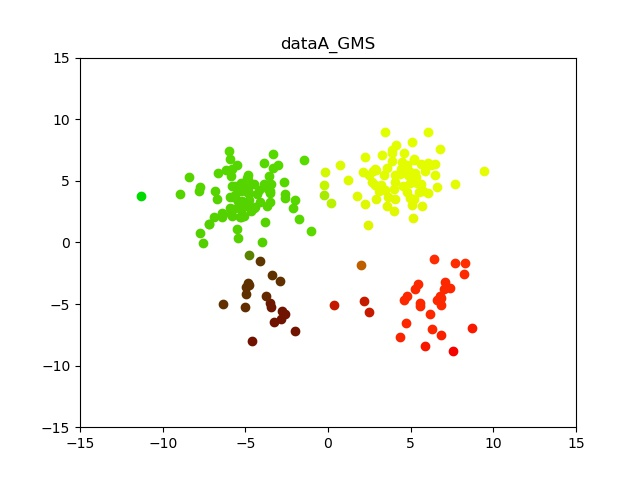
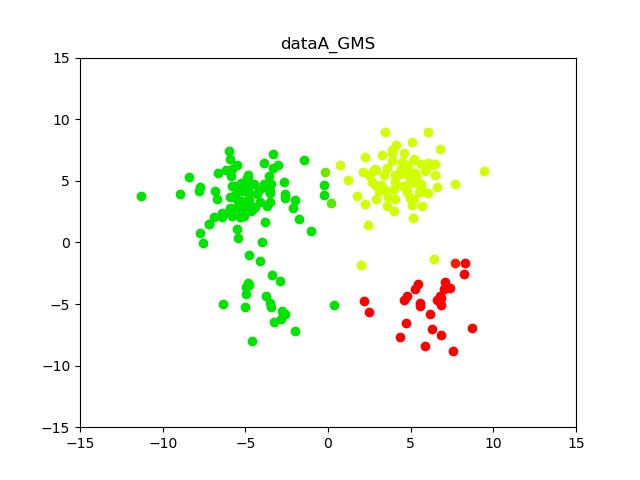
Add round in clrs of GMS

diff --git a/PA-2/PA2_P1.py b/PA-2/PA2_P1.py
@@ -68,12 +68,12 @@ def main():
         plot_cluster(X[:, 0], X[:, 1], GMM.get_result(),
                      'data' + data + '_GMM')
 
-        GMS = im.GaussianMeanShift(bandwidth=1)
+        GMS = im.GaussianMeanShift(bandwidth=3)
         GMS.fit_x(X)
         GMS.cluster()
         exp_dict[(data, 'GMS')] = GMS
         scl = MinMaxScaler()
-        clrs = scl.fit_transform(GMS.x_)
+        clrs = scl.fit_transform(np.around(GMS.x_,decimals=0))
 
         plot_MS(X[:, 0], X[:, 1], clrs, 'data' + data + '_GMS')
 

diff --git a/PA-2/PA2_IMP.py b/PA-2/PA2_IMP.py
@@ -324,4 +324,3 @@ def main():
 if __name__ == "__main__":
     main()
 
-print(0)
